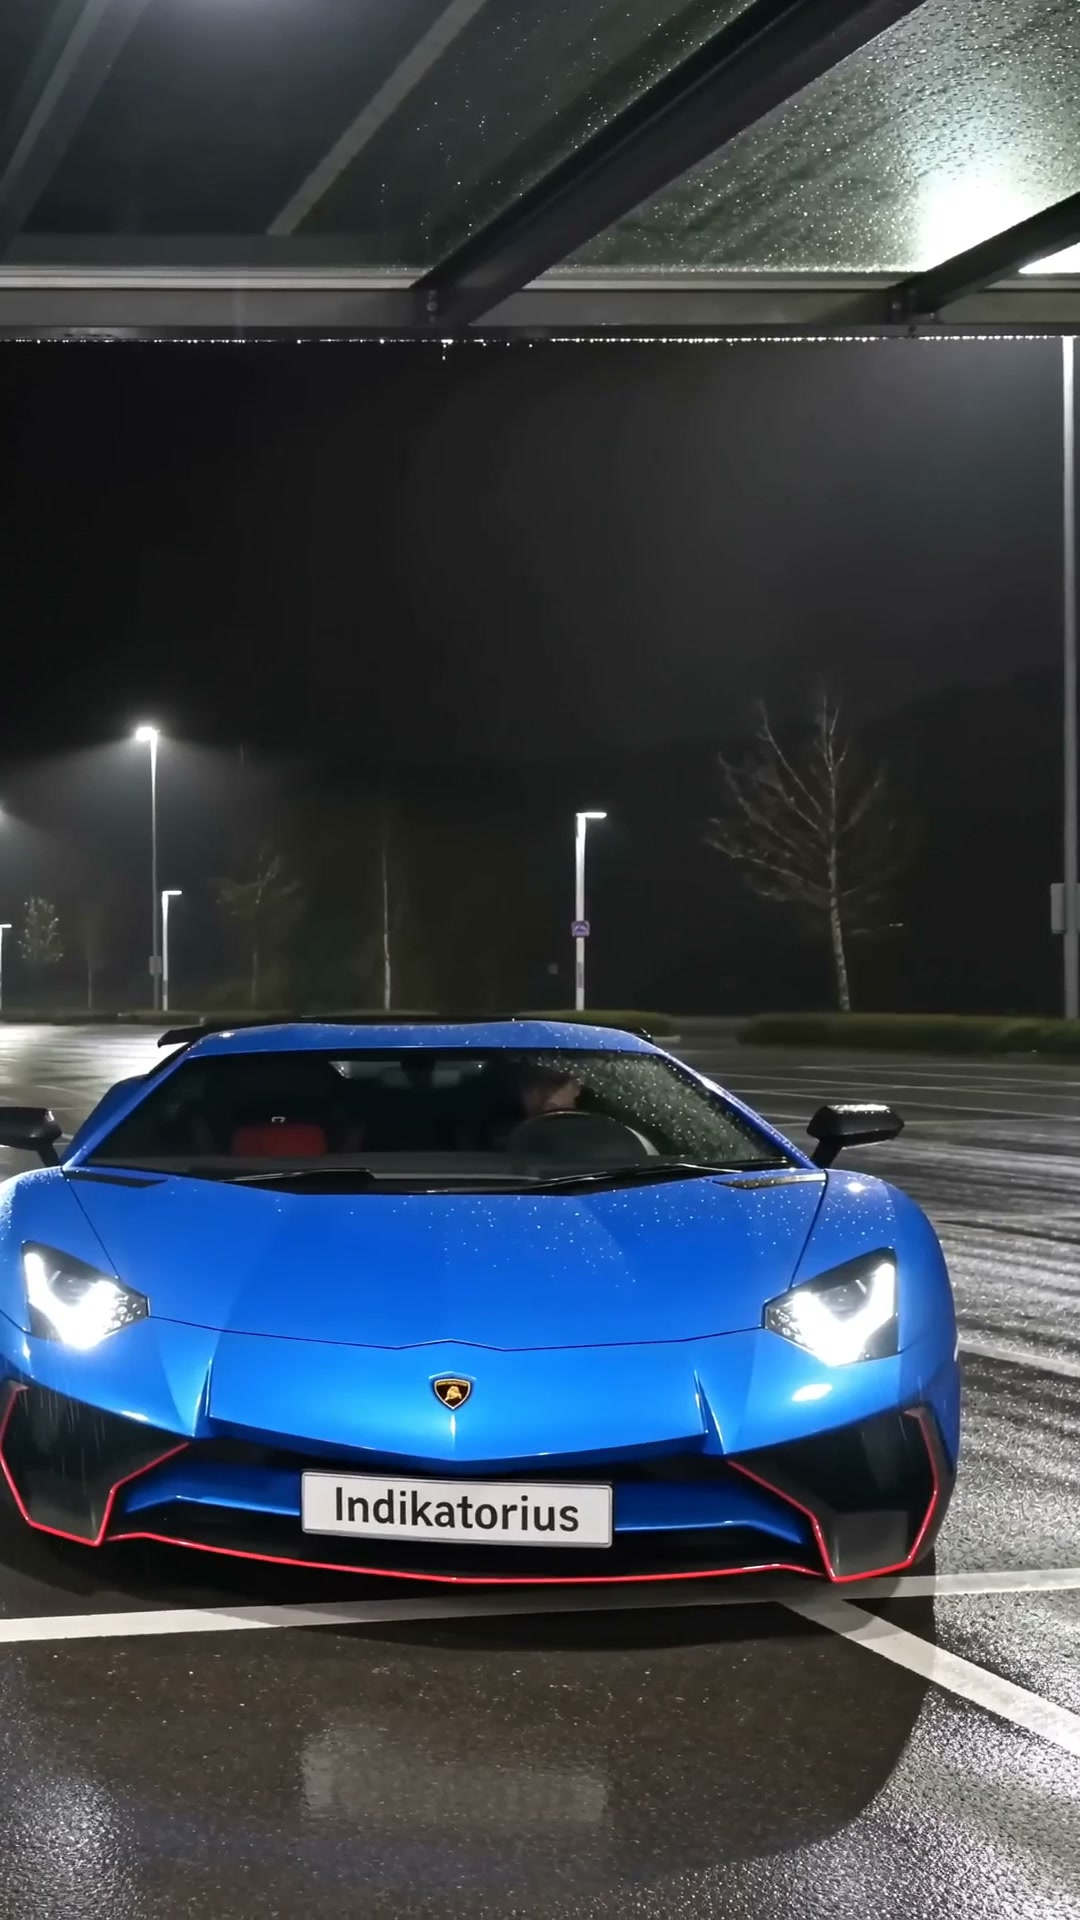
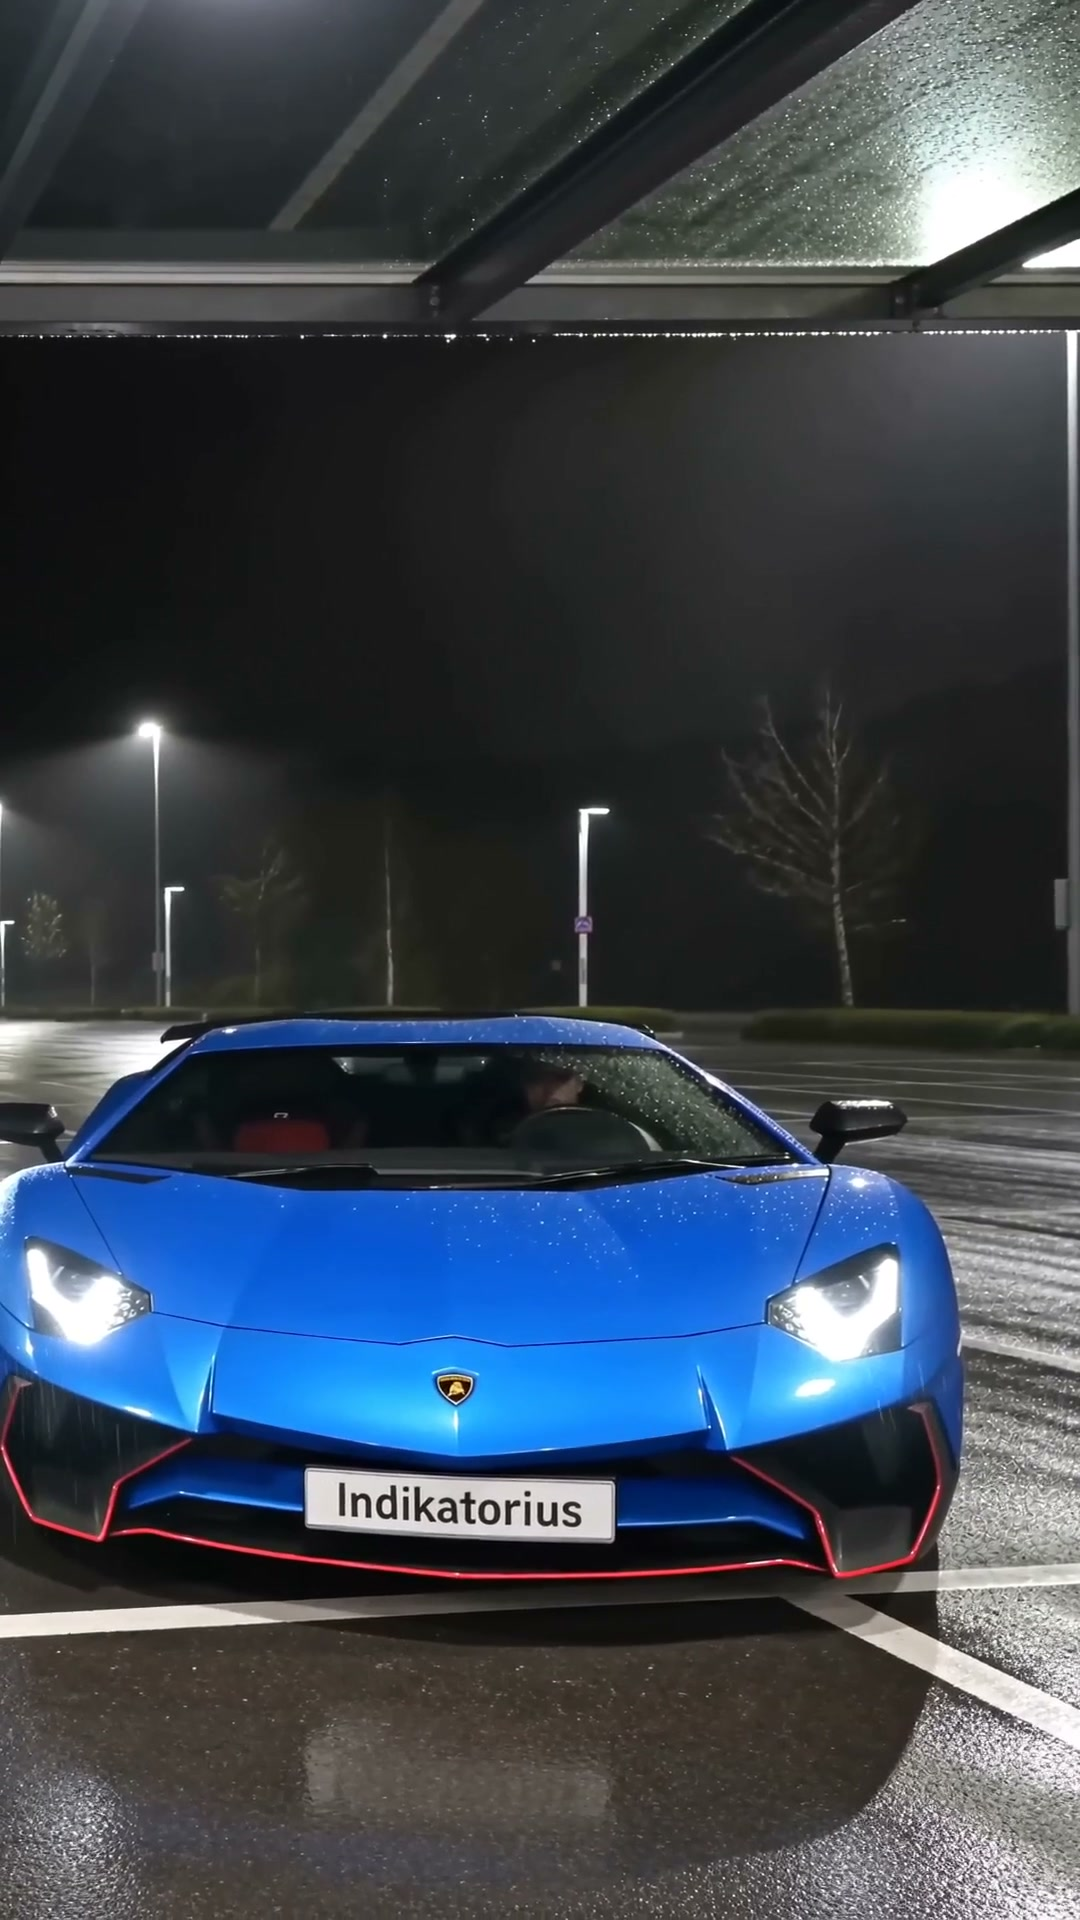
Mobile hero: matched-frame poster + freeze-on-last-frame (no crossfade loop)

diff --git a/app/produktas/[slug]/ProductPageClient.tsx b/app/produktas/[slug]/ProductPageClient.tsx
@@ -1,5 +1,5 @@
 'use client';
-import { useEffect, useLayoutEffect, useState } from 'react';
+import { useEffect, useLayoutEffect, useRef, useState } from 'react';
 import Link from 'next/link';
 import { ASSET_VERSION } from '@/lib/asset-version';
 import SeamlessVideo from '@/components/SeamlessVideo';
@@ -167,6 +167,9 @@ function YoutubeGridMobile({ videos }: { videos: readonly YoutubeVideo[] }) {
   );
 }
 
+// Must match the timestamp used for ffmpeg poster extraction.
+const MOBILE_HERO_START_OFFSET = 1.0;
+
 const backLink = (
   <Link
     href="/"
@@ -203,7 +206,41 @@ export default function ProductPageClient({ product }: { product: Product }) {
   }, [isMobile, desktopVideoSrc]);
 
   const hasVideos = (product.youtubeVideos?.length ?? 0) > 0;
-  const MOBILE_HERO_START_OFFSET = 0.5; // seconds — skip bad initial frames on mobile hero
+
+  const mobileVideoRef = useRef<HTMLVideoElement>(null);
+  const [mobileVideoReady, setMobileVideoReady] = useState(false);
+
+  useEffect(() => {
+    setMobileVideoReady(false);
+    if (!isMobile) return;
+    const v = mobileVideoRef.current;
+    if (!v) return;
+
+    const onMeta = () => { v.currentTime = MOBILE_HERO_START_OFFSET; };
+    const onSeeked = () => {
+      if (v.currentTime >= MOBILE_HERO_START_OFFSET) {
+        v.play().catch(() => {});
+        setMobileVideoReady(true);
+      }
+    };
+    const onGuard = () => {
+      if (v.currentTime < MOBILE_HERO_START_OFFSET) v.currentTime = MOBILE_HERO_START_OFFSET;
+    };
+
+    if (v.readyState >= 1) {
+      onMeta();
+    } else {
+      v.addEventListener('loadedmetadata', onMeta);
+    }
+    v.addEventListener('seeked', onSeeked);
+    v.addEventListener('timeupdate', onGuard);
+
+    return () => {
+      v.removeEventListener('loadedmetadata', onMeta);
+      v.removeEventListener('seeked', onSeeked);
+      v.removeEventListener('timeupdate', onGuard);
+    };
+  }, [isMobile, mobileVideoSrc]);
 
   // ── MOBILE (<768px) ─────────────────────────────────────────────────────────
   if (isMobile) {
@@ -220,11 +257,20 @@ export default function ProductPageClient({ product }: { product: Product }) {
               className="absolute inset-0 w-full h-full object-cover"
               style={{ zIndex: 0, ...(product.id === 'aventador' && { objectPosition: 'center 75%' }) }}
             />
-            <SeamlessVideo
+            <video
+              ref={mobileVideoRef}
               src={mobileVideoSrc}
               poster={mobilePosterSrc}
-              startOffset={MOBILE_HERO_START_OFFSET}
-              style={{ zIndex: 1, ...(product.id === 'aventador' && { objectPosition: 'center 75%' }) }}
+              muted
+              playsInline
+              preload="auto"
+              className="absolute inset-0 w-full h-full object-cover"
+              style={{
+                zIndex: 1,
+                opacity: mobileVideoReady ? 1 : 0,
+                transition: 'opacity 600ms ease-in-out',
+                ...(product.id === 'aventador' && { objectPosition: 'center 75%' }),
+              }}
             />
             <div
               className="absolute inset-0 pointer-events-none"
